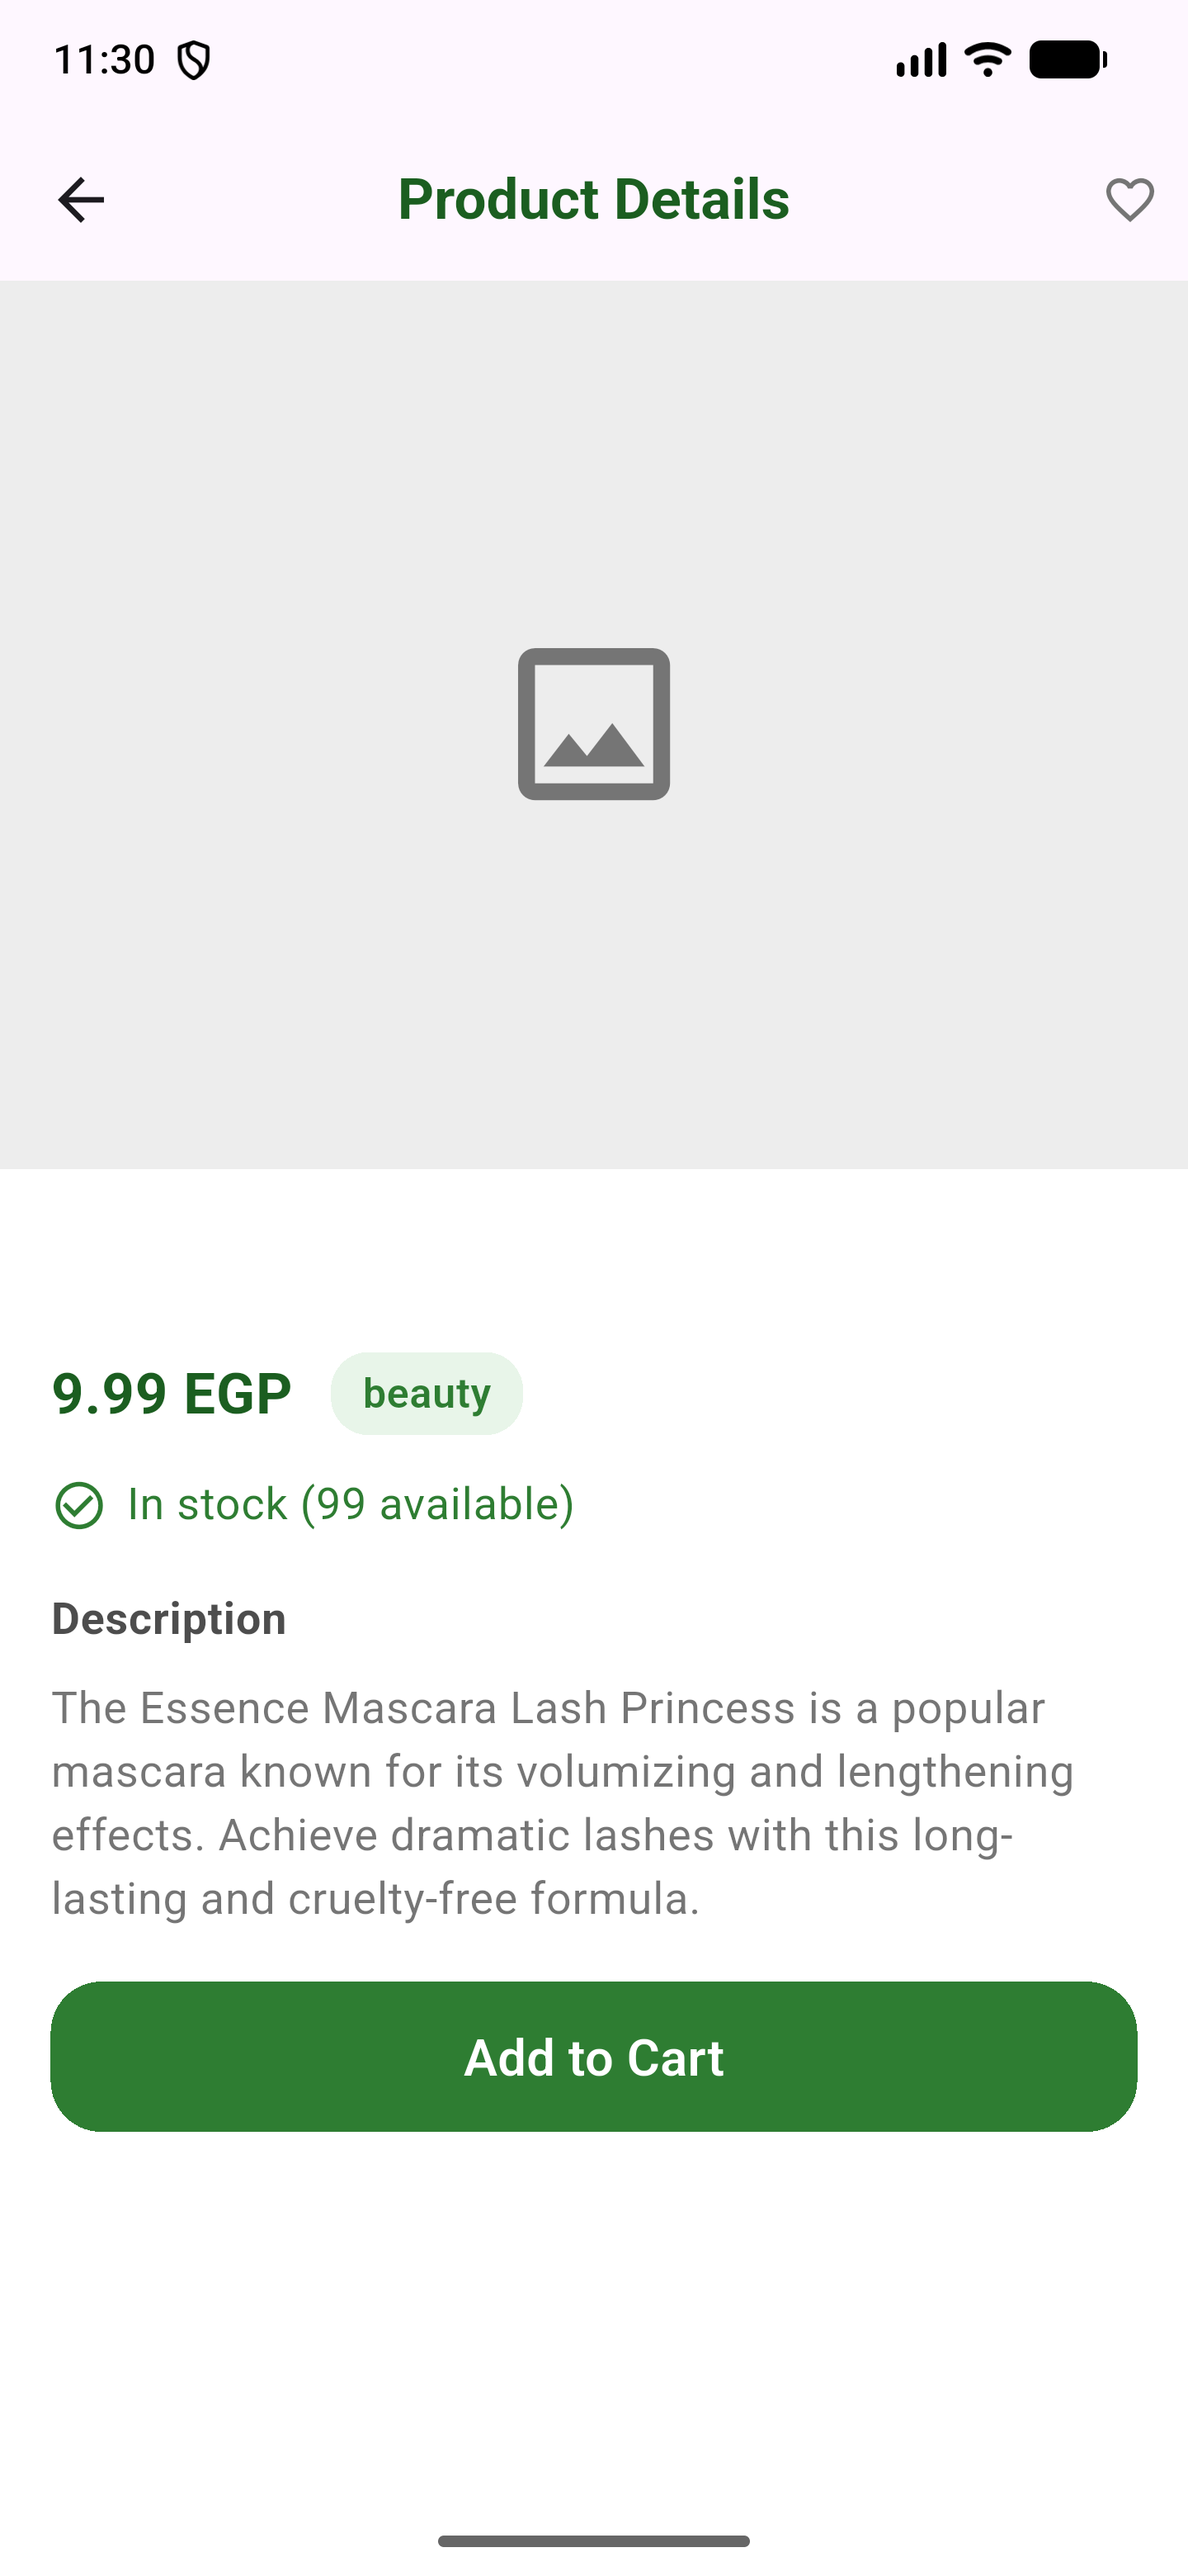
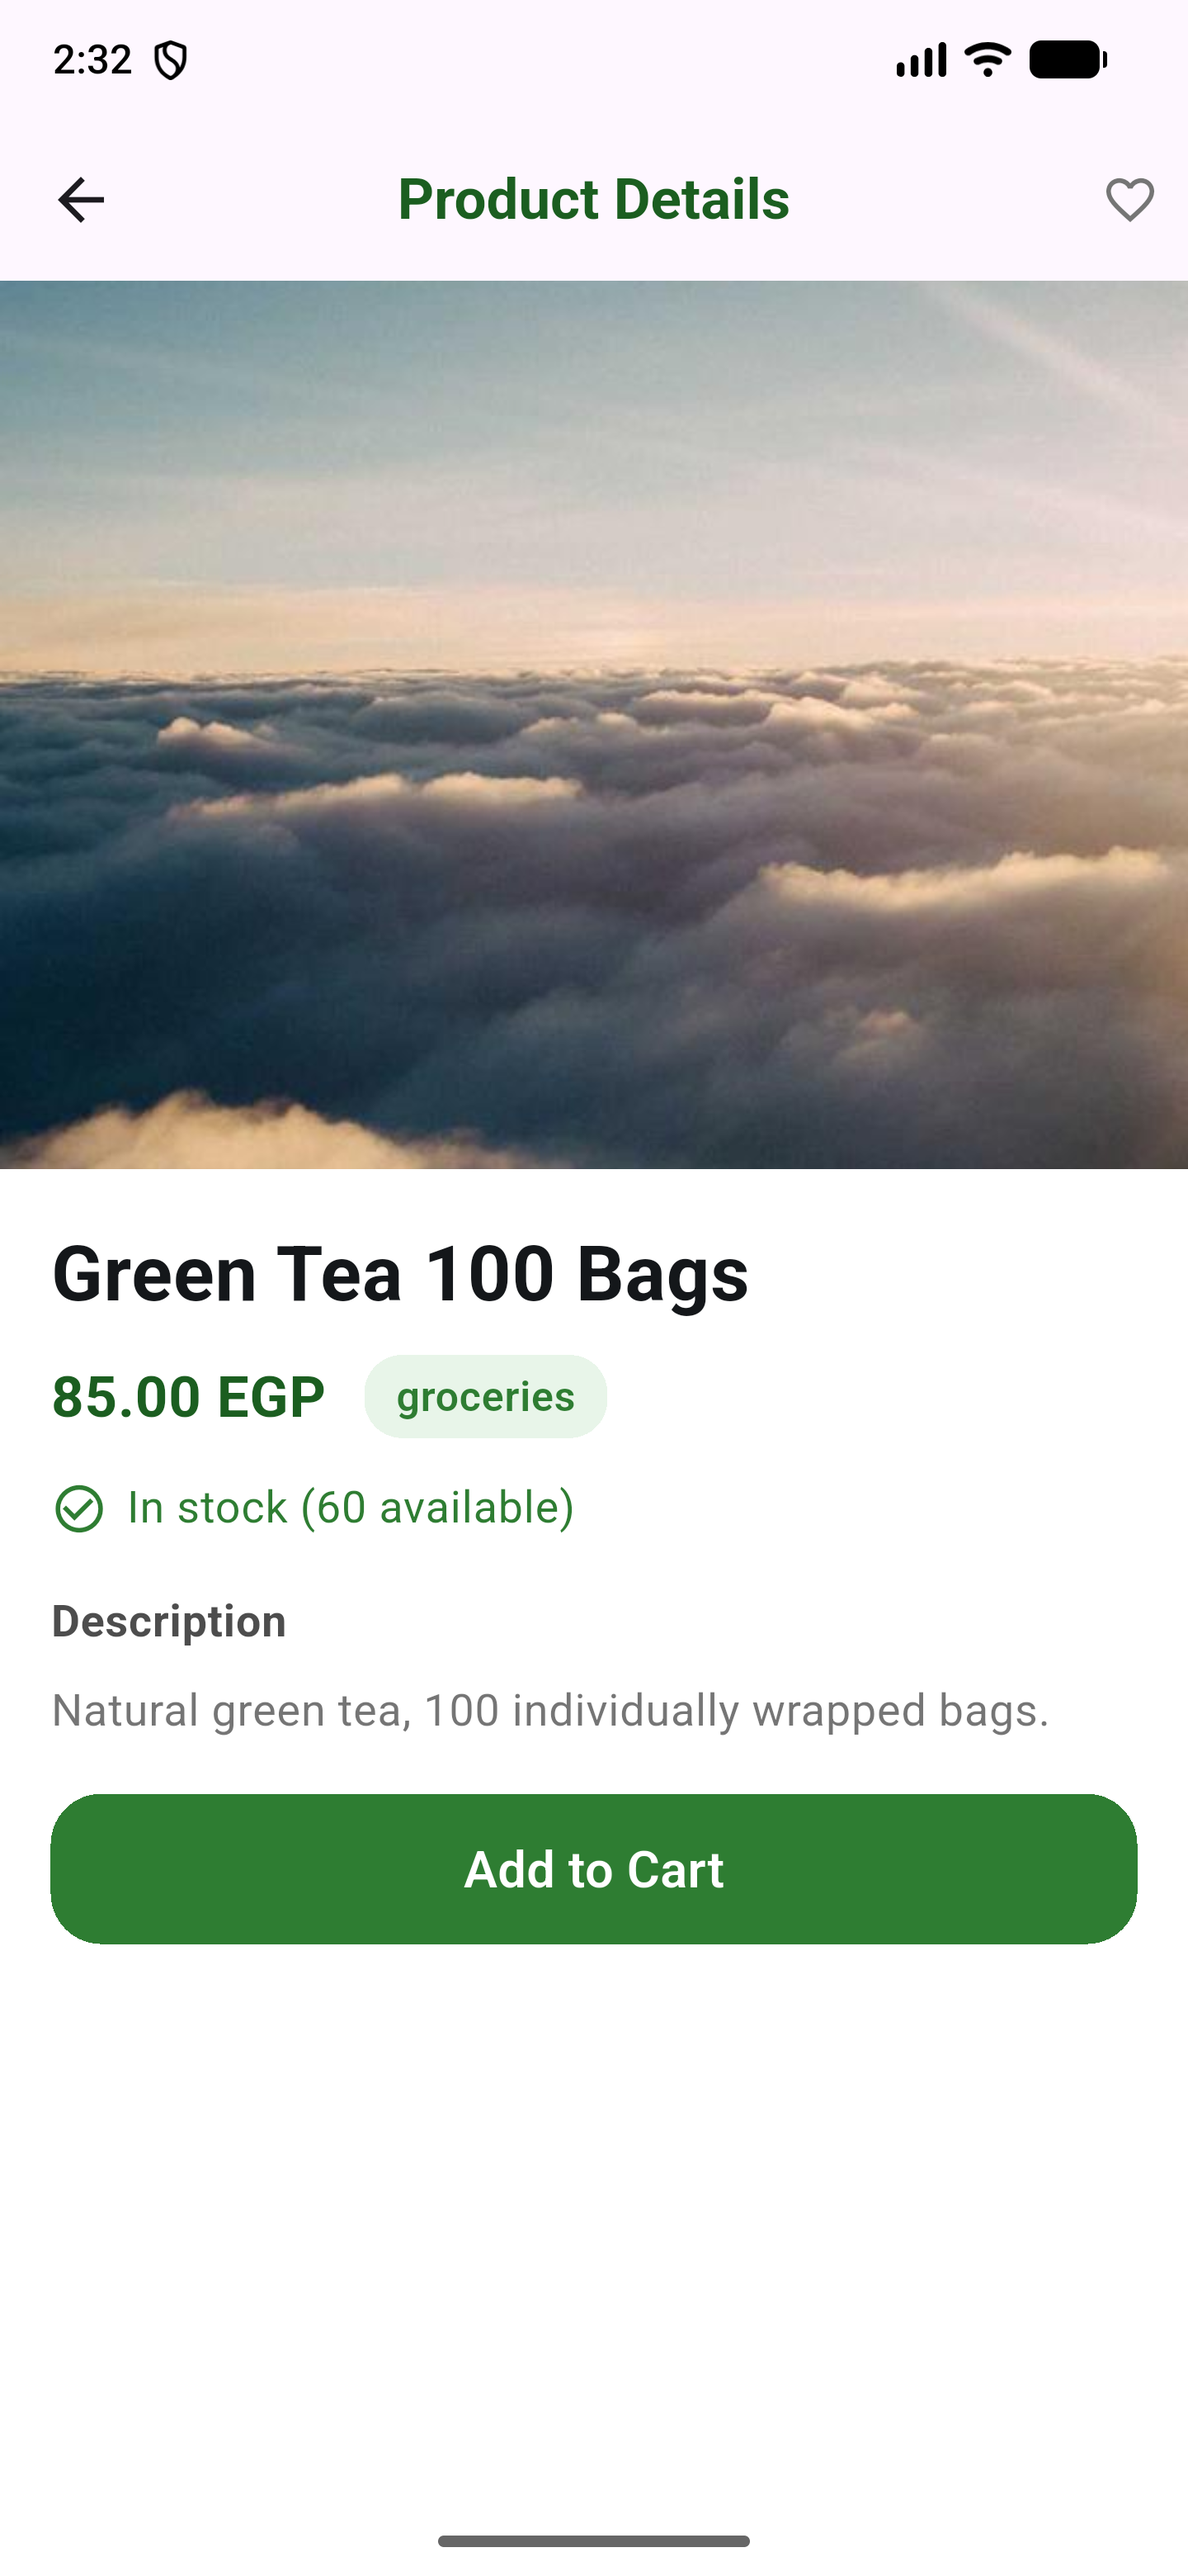
Demo mode (local Firestore emulator) + full screenshot tour + composite indexes
Demo readiness for presentations:
- main.dart: DEMO_EMULATOR dart-define routes Firestore reads/writes to a
  local emulator (10.0.2.2:8080) seeded with dummy data — a self-contained
  demo that never touches the live database. Auth stays on the real project
  (demo accounts exist there); FCM registration is skipped in this mode.
- firestore.indexes.json + firebase.json: composite indexes for
  orders/notifications (userId ASC + createdAt DESC) — My Orders and the
  notification center FAILED_PRECONDITION without them; deployed to the
  live project.
- scripts/.demo-seed-emulator.mjs + .demo-firebase.json/.demo-open.rules:
  one-shot local-emulator seeder (10 bilingual products with images,
  orders in delivered/confirmed/pending, bilingual notifications) and the
  open-rules config that lets it write.
- README: 16 real screenshots (customer + admin flows, all captured on the
  emulator against the seeded data) replace the partial table; new
  'Demo mode' section documents the 3-step demo run and the demo accounts.

diff --git a/lib/main.dart b/lib/main.dart
@@ -1,3 +1,4 @@
+import 'package:cloud_firestore/cloud_firestore.dart';
 import 'package:firebase_core/firebase_core.dart';
 import 'package:firebase_messaging/firebase_messaging.dart';
 import 'package:flutter/material.dart';
@@ -32,6 +33,19 @@ void main() async {
   FirebaseMessaging.onBackgroundMessage(firebaseMessagingBackgroundHandler);
 
   await Firebase.initializeApp(options: DefaultFirebaseOptions.currentPlatform);
+
+  // DEMO MODE (`--dart-define=DEMO_EMULATOR=true`): read/write Firestore
+  // from a LOCAL emulator (`npx firebase emulators:start --project
+  // sahety-ba784 --only firestore`) seeded with dummy data — a
+  // self-contained demo that never touches the live database. Auth stays on
+  // the real project (the demo accounts exist there); 10.0.2.2 is the host
+  // loopback as seen from an Android emulator.
+  const demoEmulator = bool.fromEnvironment('DEMO_EMULATOR');
+  if (demoEmulator) {
+    // Synchronous setup (returns void).
+    FirebaseFirestore.instance.useFirestoreEmulator('10.0.2.2', 8080);
+  }
+
   setupGetIt();
 
   // Supabase Storage (product images) — only with real config; skipped
@@ -51,6 +65,9 @@ void main() async {
   // (permission request, token save, message/tap streams). It runs AFTER
   // runApp so the terminated-state tap resolved inside initialize() finds a
   // live navigator; awaiting here cannot delay first paint anymore.
+  // Skipped in demo mode: push registration needs the live project.
   final fcm = getIt<FcmService>()..attachNavigator(appNavigatorKey);
-  await fcm.initialize();
+  if (!demoEmulator) {
+    await fcm.initialize();
+  }
 }

diff --git a/README.md b/README.md
@@ -213,34 +213,67 @@ Config lives in `e2e.config.ts` (Pixel 7 Pro emulator, bundle id `com.example.e_
 
 ## Screenshots
 
-Captured on a Pixel 7 Pro emulator against the live Firebase project.
+Captured on a Pixel 7 Pro emulator running in [demo mode](#demo-mode-local-emulator) against seeded dummy data.
+
+**Customer**
 
 | Screen | Screenshot |
 | --- | --- |
-| Login | <img src="docs/screenshots/login.png" width="240"> |
-| Home | <img src="docs/screenshots/home.png" width="240"> |
-| Products (search & filter) | <img src="docs/screenshots/products.png" width="240"> |
-| Product details | <img src="docs/screenshots/product_details.png" width="240"> |
-| Favorites | <img src="docs/screenshots/favorites.png" width="240"> |
-| Cart | <img src="docs/screenshots/cart.png" width="240"> |
-| Checkout (cash on delivery) | <img src="docs/screenshots/checkout.png" width="240"> |
-| Order success | <img src="docs/screenshots/order_success.png" width="240"> |
+| Login | <img src="docs/screenshots/login.png" width="220"> |
+| Home | <img src="docs/screenshots/home.png" width="220"> |
+| Products (search & filter) | <img src="docs/screenshots/products.png" width="220"> |
+| Product details | <img src="docs/screenshots/product_details.png" width="220"> |
+| Favorites | <img src="docs/screenshots/favorites.png" width="220"> |
+| Cart | <img src="docs/screenshots/cart.png" width="220"> |
+| Checkout (cash on delivery) | <img src="docs/screenshots/checkout.png" width="220"> |
+| Order success | <img src="docs/screenshots/order_success.png" width="220"> |
+| My Orders | <img src="docs/screenshots/orders.png" width="220"> |
+| Order details | <img src="docs/screenshots/order_details.png" width="220"> |
+| Notifications (in-app center) | <img src="docs/screenshots/notifications.png" width="220"> |
 
-Still pending:
+**Admin**
 
-- **My Orders** and **Notifications** — their Firestore queries need composite
-  indexes (`orders`/`notifications`: `userId` ASC + `createdAt` ASC). Create
-  them once from the links Firestore itself reports in the app (it renders the
-  exact console URL in the error state), then re-capture.
-- **Admin dashboard / product form / orders** — the seeded demo admin
-  (`admin@sahety.app`, created by `scripts/bootstrap-admin.mjs`) has not been
-  bootstrapped in this Firebase project yet; add a service account and run
-  `npm run admin`, then log in and capture the three screens.
+| Screen | Screenshot |
+| --- | --- |
+| Admin dashboard | <img src="docs/screenshots/admin_dashboard.png" width="220"> |
+| Product management (bilingual rows) | <img src="docs/screenshots/admin_products.png" width="220"> |
+| Product form (EN/AR inputs) | <img src="docs/screenshots/admin_product_form.png" width="220"> |
+| Incoming orders | <img src="docs/screenshots/admin_orders.png" width="220"> |
+| Order review + status flow | <img src="docs/screenshots/admin_order_details.png" width="220"> |
 
-> The demo catalog currently holds a few products seeded with empty names and
-> dead image URLs (the Supabase free tier had paused) — hence the placeholder
-> images and nameless cards above. Re-run `npm run seed` after restoring the
-> Supabase project for a full catalog.
+## Demo mode (local emulator)
+
+Run the whole app against a **local Firestore emulator seeded with dummy data** — a self-contained demo that never touches the live database, perfect for presentations:
+
+```bash
+# 1. start the local Firestore emulator (needs JDK 21+; Android Studio's JBR works)
+export JAVA_HOME="C:/Program Files/Android/Android Studio/jbr"
+export PATH="$JAVA_HOME/bin:$PATH"
+npx firebase emulators:start --project sahety-ba784 --only firestore --config=.demo-firebase.json
+
+# 2. seed dummy data into it (10 bilingual products, orders, notifications)
+node scripts/.demo-seed-emulator.mjs
+
+# 3. build + install the app in demo mode
+flutter build apk --debug --dart-define=DEMO_EMULATOR=true
+adb install -r build/app/outputs/flutter-apk/app-debug.apk
+```
+
+What demo mode does (`lib/main.dart`): Firestore reads/writes go to the local
+emulator at `10.0.2.2:8080`; **auth stays on the real project** (the demo
+accounts exist there); FCM registration is skipped. Everything resets when the
+emulator restarts — just re-run step 2.
+
+Demo credentials (both are demo-only accounts in the scratch Firebase project — never reuse these passwords anywhere real):
+
+| Role | Email | Password |
+| --- | --- | --- |
+| Admin | `admin@sahety.app` | `Admin@123456` |
+| Customer | `demo.shopper@shop.test` | `Demo@1234` |
+
+`.demo-firebase.json` + `.demo-open.rules` are helper configs that start the
+emulator with open rules long enough for the seeder (the app itself runs under
+the project's real rules semantics).
 
 ## Notes
 
